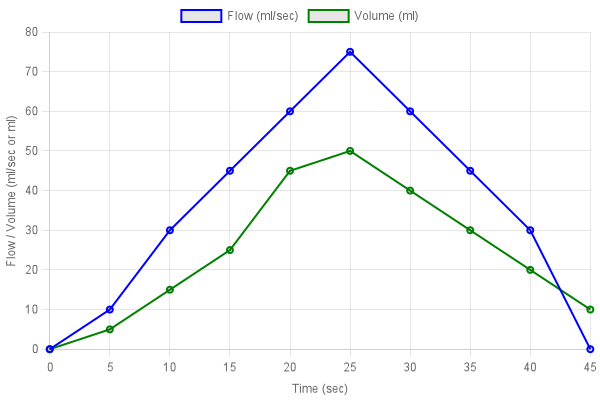
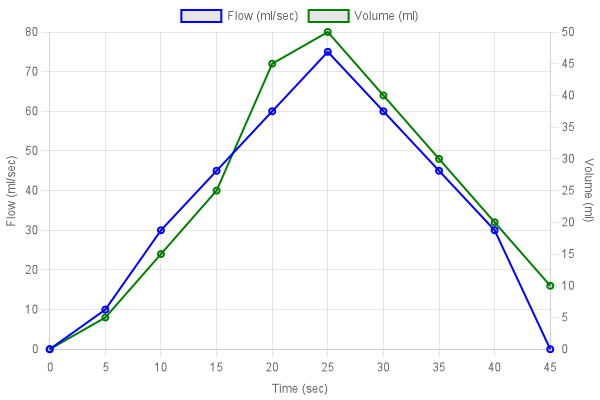
measure api updation

diff --git a/functions/generatepdf.js b/functions/generatepdf.js
@@ -23,6 +23,7 @@ const generateChart = async () => {
           borderColor: 'blue',
           borderWidth: 2,
           fill: false,
+          yAxisID: 'yFlow', // Specify first Y-axis
         },
         {
           label: 'Volume (ml)',
@@ -30,6 +31,7 @@ const generateChart = async () => {
           borderColor: 'green',
           borderWidth: 2,
           fill: false,
+          yAxisID: 'yVolume', // Specify second Y-axis
         }
       ]
     },
@@ -41,12 +43,26 @@ const generateChart = async () => {
             text: 'Time (sec)'
           }
         },
-        y: {
+        yFlow: {
+          type: 'linear', // Left Y-axis (for Flow)
+          position: 'left',
           title: {
             display: true,
-            text: 'Flow / Volume (ml/sec or ml)'
+            text: 'Flow (ml/sec)',
           },
-          beginAtZero: true
+          beginAtZero: true,
+        },
+        yVolume: {
+          type: 'linear', // Right Y-axis (for Volume)
+          position: 'right',
+          title: {
+            display: true,
+            text: 'Volume (ml)',
+          },
+          beginAtZero: true,
+          grid: {
+            drawOnChartArea: false, // Prevent grid lines from being drawn on the right Y-axis
+          },
         }
       }
     }

diff --git a/models/measuredataModel.js b/models/measuredataModel.js
@@ -4,12 +4,18 @@ const Schema = mongoose.Schema;
 
 const MeasureSchema = new Schema({
 userId: { type: String, required: true },
-  date: { type: Number, required: true },
+  date: { type: Date, required: true },
+  totalVolume: { type: String, required: true },
+  totalMeasureTime: { type: String, required: true }, 
+  maxFlowSpeed: { type: String, required: true }, 
+  flowTime: { type: String, required: true }, 
+  averageFlowSpeed: { type: String, required: true }, 
+  timeOfMaxSpeed: { type: String, required: true },
   data: [
     {
-      totalVolume: { type: String, required: true },
-      flowTime: { type: String, required: true },
-      flowSpeed: { type: String, required: true },
+      volume: { type: String, required: true },
+      time: { type: String, required: true },
+      flow: { type: String, required: true },
     }
   ]
 });

diff --git a/controllers/measurecontroller.js b/controllers/measurecontroller.js
@@ -15,7 +15,7 @@ exports.getAllMeasures = async (req, res) => {
 // Data append karne ke liye
 exports.addMeasurementData = async (req, res) => {
   const { userId } = req.params;
-  const { date, data } = req.body;
+  const { date, data, totalVolume, totalMeasureTime, maxFlowSpeed, flowTime, averageFlowSpeed, timeOfMaxSpeed } = req.body;
 
   try {
     let measure = await MeasureData.findOne({ userId, date });
@@ -25,7 +25,7 @@ exports.addMeasurementData = async (req, res) => {
       measure.data.push(...data);
     } else {
       // Agar record nahi milta, to naye data ke sath record create karo
-      measure = new MeasureData({ userId, date, data });
+      measure = new MeasureData({ userId, date, data, totalVolume, totalMeasureTime, maxFlowSpeed, flowTime, averageFlowSpeed,timeOfMaxSpeed});
     }
 
     await measure.save();
